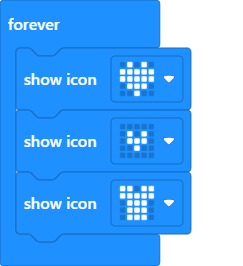
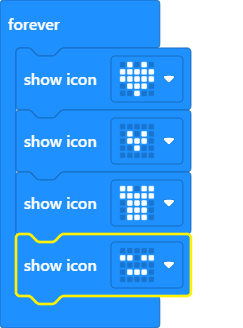
Update main.blocks, main.ts

Changed region(s): [[0.0288, 0.0301, 0.8066, 0.9323]]

diff --git a/main.ts b/main.ts
@@ -2,4 +2,5 @@ basic.forever(function () {
     basic.showIcon(IconNames.Heart)
     basic.showIcon(IconNames.SmallHeart)
     basic.showIcon(IconNames.TShirt)
+    basic.showIcon(IconNames.Asleep)
 })
